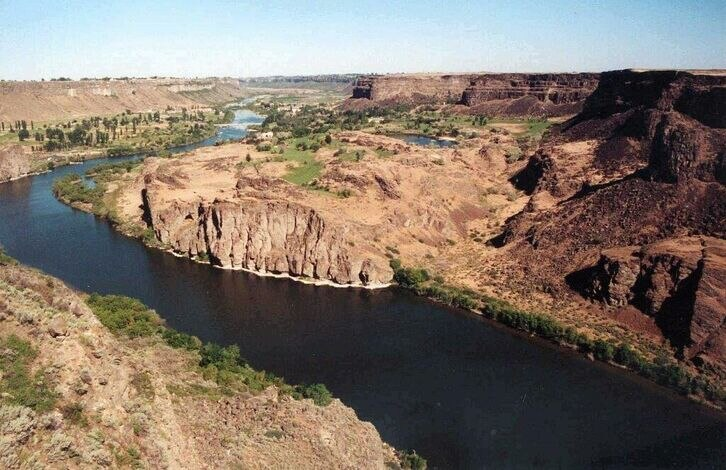
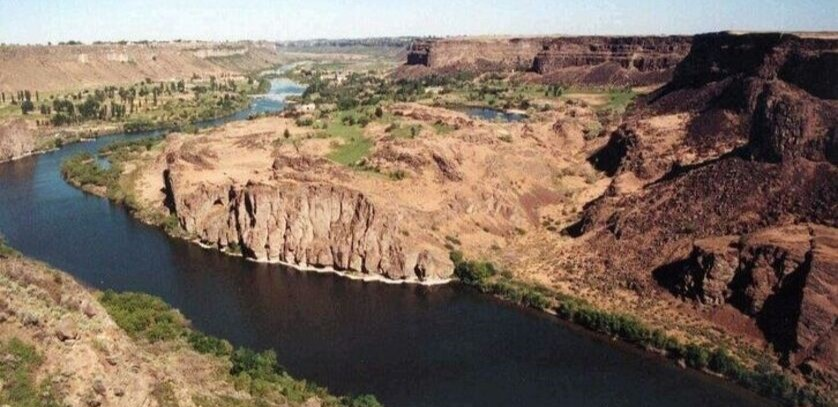
fixed images for page 2

diff --git a/wwr/styles/style.css b/wwr/styles/style.css
@@ -277,10 +277,15 @@ nav a:hover {
 }
 .rivers-grid div {
     border: 8px solid #d0b47b;
+
+    align-content: center;
+
+    overflow: hidden;
 }
 /* image elements */
-#salmon-img img, #snake-img img, #owyhee-img img {
-    width: 100%;
+#salmon-img img, #snake-img img, #owyhee-img {
+    /* width: 100%; */
+    
     height: 100%;
 }
 /* text elements */
@@ -311,8 +316,7 @@ nav a:hover {
 #owyhee-img {
     grid-column: 1/2;
     grid-row: 3/4;
-    width: 100%;
-    height: 100%;
+    
 }
 #owyhee-text {
     grid-column: 2/3;
